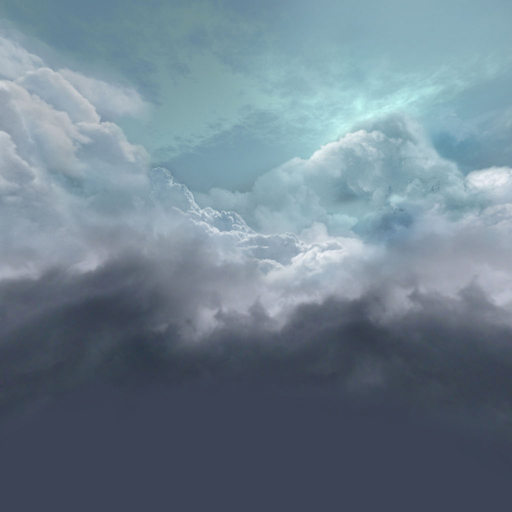
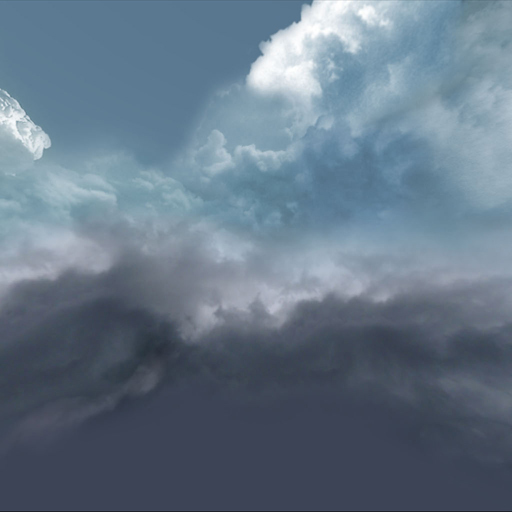
fixed box textures

diff --git a/Project2/proto.js b/Project2/proto.js
@@ -102,7 +102,7 @@ function initGL() {
   initTextures();
 
   renderObjects();
-};
+}
 
 function setModelView() {
   // viewer point, look-at point, up direction.
@@ -118,7 +118,7 @@ function setProjection() {
   // Set bounds for projection.
   viewerDist = length(subtract(e, a));
   near = viewerDist - 6;
-  far = viewerDist + 30;
+  far = viewerDist + 64;
 
   // Perspecive projection bounds.
   perTop = near * Math.tan(Math.PI / 4);
@@ -162,9 +162,9 @@ function createGeometry() {
     program: initShaders(gl, "ellipsoid-vertex-shader", "ellipsoid-fragment-shader"),
     vertDim: 3,
     numElems: sphereInds.length
-  }
+  };
   //box bound
-  var bb = 16.0;
+  var bb = 32.0;
   box = {
     front: [-bb, -bb, -bb,
             bb, -bb, -bb,
@@ -193,13 +193,13 @@ function createGeometry() {
     indexList: [0, 1, 2,
                 0, 2, 3],
     texCoords: [0.0, 0.0,
-                0.0, 1.0,
+                1.0, 0.0,
                 1.0, 1.0,
-                1.0, 0.0],
+                0.0, 1.0],
     program: initShaders(gl, "box-vertex-shader", "box-fragment-shader"),
     vertDim: 3,
     numElems: 6
-  }
+  };
 
   box.verts = [box.front, box.right, box.back, box.left, box.top, box.bottom];
 }
@@ -257,6 +257,9 @@ function drawEllipsoid() {
 
   gl.useProgram(ellipsoid.program);
 
+  gl.activeTexture(gl.TEXTURE0);
+  gl.bindTexture(gl.TEXTURE_CUBE_MAP, textures[0]);
+
   gl.bindBuffer(gl.ELEMENT_ARRAY_BUFFER, indexBuffer);
   gl.bufferData(gl.ELEMENT_ARRAY_BUFFER, new Uint16Array(ellipsoid.indexList), gl.STATIC_DRAW);
 
@@ -290,9 +293,6 @@ function drawEllipsoid() {
 
   alphaLoc = gl.getUniformLocation(ellipsoid.program, "alpha");
   gl.uniform1f(alphaLoc, alpha);
-
-  gl.activeTexture(gl.TEXTURE0);
-  gl.bindTexture(gl.TEXTURE_CUBE_MAP, textures[0]);
 
   cubeTexMapLoc = gl.getUniformLocation(ellipsoid.program, "cubeTexMap");
   gl.uniform1i(cubeTexMapLoc, 0);
@@ -371,7 +371,7 @@ function getNormals(vertices, indexList) {
       }
     }
     var vertNormal = vec3(0, 0, 0);
-    for (var j = 0; j < faceNormals.length; j++) {
+    for (j = 0; j < faceNormals.length; j++) {
       vertNormal = add(vertNormal, faceNormals[j]);
     }
     vertNormal = normalize(vertNormal);
